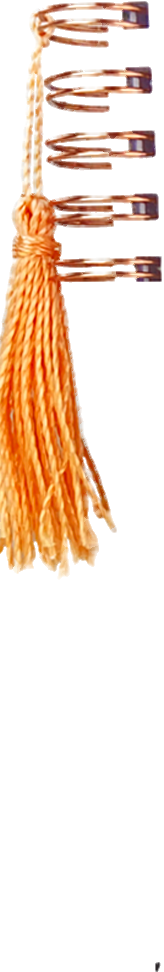
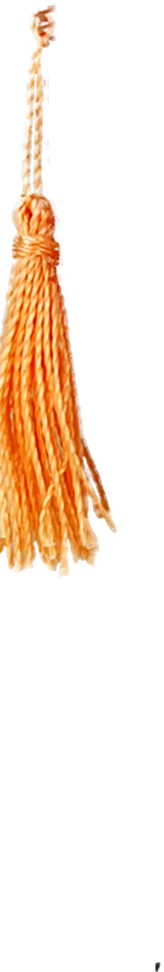
fix(mockup): anéis rose gold do topo na especificação não dependem do tassel laranja
Claude-Session: https://claude.ai/code/session_01BQFSvaeq6QY18EFfhzRHxb

Changed region(s): [[0.2744, 0.0, 1.0, 0.3086]]

diff --git a/tests/engine/aneis-rose-topo.test.ts b/tests/engine/aneis-rose-topo.test.ts
@@ -1,0 +1,89 @@
+import { existsSync } from 'node:fs';
+import { fileURLToPath } from 'node:url';
+import { describe, expect, test } from 'vitest';
+import { newRaster } from '../../src/engine/blend';
+import { compose } from '../../src/engine/compose';
+import type { Choices, Raster } from '../../src/engine/types';
+import { loadPackNode } from '../support/loadPackNode';
+
+const RAIZ = fileURLToPath(new URL('../../', import.meta.url));
+const PACK = RAIZ + 'pack/especificacao';
+const temPack = existsSync(PACK + '/mockup.json') && existsSync(PACK + '/layers/wireo-rose-topo-01.png');
+const ID = 'wireo-rose-topo-01';
+
+const TASSEIS = ['verde', 'azul', 'rosa', 'branco', 'laranja', 'nenhum'];
+const ativa = (when: Record<string, string> | undefined, escolha: Choices) =>
+  !when || Object.entries(when).every(([k, v]) => escolha[k as keyof Choices] === v);
+
+function arteLisa(w: number, h: number): Raster {
+  const r = newRaster(w, h);
+  for (let i = 0; i < w * h; i++) r.data.set([60, 90, 200, 255], i * 4);
+  return r;
+}
+
+describe.skipIf(!temPack)('anéis rose gold do topo (especificação)', () => {
+  test('a camada vale para wire-o rose gold com qualquer tassel e nunca para preto/branco', async () => {
+    const { pack } = await loadPackNode(PACK);
+    const camada = pack.stack.find((c) => c.id === ID);
+    expect(camada).toBeDefined();
+    expect(camada?.when).toEqual({ wireo: 'rose-gold' });
+    for (const tassel of TASSEIS) {
+      expect(ativa(camada?.when, { wireo: 'rose-gold', elastico: 'preto', tassel })).toBe(true);
+      for (const wireo of ['preto', 'branco']) {
+        expect(ativa(camada?.when, { wireo, elastico: 'preto', tassel })).toBe(false);
+      }
+    }
+    // fica antes das camadas de tassel (o tassel cobre os anéis, como no arquivo original)
+    const i = pack.stack.findIndex((c) => c.id === ID);
+    expect(i).toBeLessThan(pack.stack.findIndex((c) => c.id === 'tassel-verde-01'));
+    expect(i).toBeGreaterThan(pack.stack.findIndex((c) => c.id === 'arte'));
+  });
+
+  test('os anéis do topo aparecem cobre com qualquer tassel e parecidos com o caso laranja', async () => {
+    const { pack, layers } = await loadPackNode(PACK);
+    const camada = pack.stack.find((c) => c.id === ID)!;
+    const aneis = layers.get(camada.file as string)!;
+    const arte = arteLisa(pack.artSize.width, pack.artSize.height);
+    const base = { wireo: 'rose-gold', elastico: 'preto' };
+    const laranja = compose(pack, layers, arte, { ...base, tassel: 'laranja' } as Choices, null, 'vt');
+    const [ox, oy] = camada.offset;
+    for (const tassel of TASSEIS.filter((t) => t !== 'laranja')) {
+      const out = compose(pack, layers, arte, { ...base, tassel } as Choices, null, 'vt');
+      let n = 0;
+      let soma = 0;
+      let diferentes = 0;
+      // só os anéis de fato visíveis: opacos, longe do fio/tassel (x >= 65 do canvas) e dentro do topo
+      for (let y = 0; y < aneis.height; y++) {
+        for (let x = 0; x < aneis.width; x++) {
+          if (aneis.data[(y * aneis.width + x) * 4 + 3]! < 250 || ox + x < 65) continue;
+          const k = ((oy + y) * out.width + (ox + x)) * 4;
+          soma += out.data[k]! - out.data[k + 2]!;
+          n++;
+          // o corpo de cada tassel tem forma própria e cobre a ponta de alguns anéis: tolera uma pequena fração
+          if ([0, 1, 2].some((c) => Math.abs(out.data[k + c]! - laranja.data[k + c]!) > 8)) diferentes++;
+        }
+      }
+      expect(n).toBeGreaterThan(500);
+      expect(soma / n, `R-B médio com tassel ${tassel}`).toBeGreaterThan(40); // cobre: vermelho bem acima do azul
+      expect(diferentes / n, `pixels diferentes do caso laranja com tassel ${tassel}`).toBeLessThan(0.06);
+    }
+  });
+
+  test('com wire-o preto o tassel laranja não traz mais anéis cobre do topo', async () => {
+    const { pack, layers } = await loadPackNode(PACK);
+    const arte = arteLisa(pack.artSize.width, pack.artSize.height);
+    const camada = pack.stack.find((c) => c.id === ID)!;
+    const aneis = layers.get(camada.file as string)!;
+    const out = compose(pack, layers, arte, { wireo: 'preto', elastico: 'preto', tassel: 'laranja' }, null, 'vt');
+    const [ox, oy] = camada.offset;
+    let cobre = 0;
+    for (let y = 0; y < aneis.height; y++) {
+      for (let x = 0; x < aneis.width; x++) {
+        if (aneis.data[(y * aneis.width + x) * 4 + 3]! < 250 || ox + x < 65) continue;
+        const k = ((oy + y) * out.width + (ox + x)) * 4;
+        if (out.data[k]! - out.data[k + 2]! > 40) cobre++;
+      }
+    }
+    expect(cobre).toBe(0);
+  });
+});

diff --git a/tools/separar_aneis_rose.py b/tools/separar_aneis_rose.py
@@ -1,0 +1,119 @@
+"""Separa os 5 anéis rose gold do TOPO da espiral esquerda (e os clipes escuros) do tassel laranja.
+
+No PSD da especificação os anéis do topo só existem dentro de tassel-laranja-01.png, colados ao fio/tassel
+laranja. Sem isso, wire-o rose gold + qualquer tassel que não seja o laranja mostrava os anéis brancos/prata.
+
+O que o script faz na pasta do pacote (pack/especificacao):
+  1. cria layers/wireo-rose-topo-01.png (só anéis + clipes) e a entrada `wireo-rose-topo-01` no mockup.json
+     (when wireo=rose-gold, sem condição de tassel), logo antes da primeira camada tassel-*;
+  2. reescreve tassel-laranja-01.png e tassel-laranja-02.png só com o fio/tassel (sem os anéis do topo).
+É idempotente: se a entrada wireo-rose-topo-01 já existe, não faz nada.
+
+Como separa: a forma do tassel (fio, nó, corpo) fica à esquerda de uma linha-guia XB(y); à direita só há anéis.
+Perto da linha (faixa de BANDA px) e no nó do topo, onde fio e anéis se cruzam, decide a cor: cobre/rose tem matiz
+baixo (< ~22 graus) ou é mais escuro; fio e tassel são creme/laranja claros. Abaixo de Y_TASSEL é tudo tassel.
+
+Uso:  python3 tools/separar_aneis_rose.py [pack/especificacao]
+"""
+import json
+import sys
+from pathlib import Path
+
+import numpy as np
+from PIL import Image
+
+ID_NOVO = "wireo-rose-topo-01"
+ARQUIVO_NOVO = "wireo-rose-topo-01.png"
+# (y, x) da borda direita do fio/tassel, em pixels da camada tassel-laranja-01.png
+XB = [(56, 46), (195, 46), (200, 50), (215, 56), (230, 57), (246, 61), (260, 61), (272, 58), (284, 60), (292, 66)]
+BANDA = 3  # meia-largura da faixa em que a cor decide
+Y_NO = 56  # acima disso (nó do topo cruzando o anel 1) a cor decide entre X_FIO e X_ANEL
+X_FIO, X_NO, X_ANEL = 46, 48, 56  # no nó: x < X_NO o tassel fica inteiro (o anel passa por dentro dele) e não entra nos anéis; x >= X_ANEL só anel
+Y_TASSEL = 292  # daqui para baixo é tudo tassel
+
+
+def _matiz_valor(rgb):
+    rgb = rgb / 255.0
+    mx, mn = rgb.max(2), rgb.min(2)
+    d = mx - mn + 1e-9
+    r, g, b = rgb[..., 0], rgb[..., 1], rgb[..., 2]
+    h = np.where(mx == r, ((g - b) / d) % 6, np.where(mx == g, (b - r) / d + 2, (r - g) / d + 4)) * 60
+    return h, mx
+
+
+def pesos(rgba: np.ndarray):
+    """(wt, wr) em 0..1 por pixel: quanto do alfa vai para o tassel e quanto para os anéis.
+    Fora do nó do topo wt + wr = 1; no nó os dois se sobrepõem (o anel passa por dentro do nó, que o cobre)."""
+    altura, largura = rgba.shape[:2]
+    ys = np.arange(altura)
+    xb = np.interp(ys, [p[0] for p in XB], [p[1] for p in XB])[:, None]
+    x = np.arange(largura)[None, :]
+    geo = np.clip((xb - x) / (2 * BANDA) + 0.5, 0, 1)  # 1 à esquerda da guia, 0 à direita, rampa na faixa
+    h, v = _matiz_valor(rgba[..., :3].astype(float))
+    h = np.where(h > 300, 0, h)
+    cor = np.clip((h - 21) / 4, 0, 1) * np.clip((v - 0.78) / 0.07, 0, 1)  # fio/tassel: matiz alto e claro
+    faixa = np.clip(1 - np.abs(xb - x) / BANDA, 0, 1)  # onde a cor manda: faixa em volta da guia
+    wt = geo * (1 - faixa) + cor * faixa
+    wt = np.where((ys >= Y_TASSEL)[:, None], 1.0, wt)
+    wr = 1 - wt
+    no = (ys < Y_NO)[:, None]
+    wt = np.where(no, np.clip((X_ANEL - x) / (X_ANEL - X_NO), 0, 1), wt)
+    wr = np.where(no, np.where(x < X_FIO, 0.0, np.where(x >= X_ANEL, 1.0, 1 - cor)), wr)
+    return np.clip(wt, 0, 1), np.clip(wr, 0, 1)
+
+
+def separar(rgba: np.ndarray):
+    """(tassel, aneis): dois RGBA do mesmo tamanho."""
+    wt, wr = pesos(rgba)
+    tassel = rgba.copy()
+    aneis = rgba.copy()
+    tassel[..., 3] = np.rint(rgba[..., 3] * wt)
+    aneis[..., 3] = np.rint(rgba[..., 3] * wr)
+    return tassel, aneis
+
+
+def _crop(arr: np.ndarray):
+    img = Image.fromarray(arr.astype("uint8"), "RGBA")
+    caixa = img.getchannel("A").getbbox()
+    return (img.crop(caixa), caixa) if caixa else (None, None)
+
+
+def separar_pacote(pasta) -> bool:
+    pasta = Path(pasta)
+    caminho = pasta / "mockup.json"
+    pack = json.loads(caminho.read_text(encoding="utf-8"))
+    stack = pack["stack"]
+    if any(c["id"] == ID_NOVO for c in stack):
+        return False
+    camadas = pasta / "layers"
+    entrada = next((c for c in stack if c["id"] == "tassel-laranja-01"), None)
+    if entrada is None:
+        return False
+    ox, oy = entrada["offset"]
+    f01 = np.array(Image.open(camadas / "tassel-laranja-01.png").convert("RGBA"))
+    tassel1, aneis = separar(f01)
+    img_aneis, caixa = _crop(aneis)
+    img_aneis.save(camadas / ARQUIVO_NOVO, optimize=True)
+    # -02 (preto/branco) também perde os anéis do topo
+    f02 = np.array(Image.open(camadas / "tassel-laranja-02.png").convert("RGBA"))
+    tassel2, _ = separar(f02)
+    for arq, arr in (("tassel-laranja-01.png", tassel1), ("tassel-laranja-02.png", tassel2)):
+        Image.fromarray(arr.astype("uint8"), "RGBA").save(camadas / arq, optimize=True)  # mesmo tamanho: offsets intactos
+    novo = {
+        "id": ID_NOVO,
+        "role": "fixed",
+        "file": ARQUIVO_NOVO,
+        "opacity": 1.0,
+        "blend": "normal",
+        "offset": [ox + caixa[0], oy + caixa[1]],
+        "when": {"wireo": "rose-gold"},
+    }
+    pos = next(i for i, c in enumerate(stack) if c["id"].startswith("tassel-"))
+    stack.insert(pos, novo)
+    caminho.write_text(json.dumps(pack, indent=2, ensure_ascii=False), encoding="utf-8")
+    return True
+
+
+if __name__ == "__main__":
+    alvo = sys.argv[1] if len(sys.argv) > 1 else "pack/especificacao"
+    print("separado" if separar_pacote(alvo) else "nada a fazer (já separado ou sem tassel laranja)")

diff --git a/tools/export_pack_especificacao.py b/tools/export_pack_especificacao.py
@@ -19,6 +19,7 @@ from scipy import ndimage
 
 sys.path.insert(0, str(Path(__file__).resolve().parent))
 from export_pack import export_pack  # noqa: E402
+from separar_aneis_rose import separar_pacote  # noqa: E402
 
 # Trechos do mockup (1200x1200) que viram zoom, achados comparando com os círculos do PSD de referência.
 FONTE_ANEL = (10, 909, 276, 274)        # wire-o + faixa amarela + borda de baixo
@@ -116,7 +117,9 @@ def export_especificacao(psd_vt, psd_sc, out_dir):
     stack.extend(zooms_vt)
     stack.extend(zooms_sc)
     (out / "mockup.json").write_text(json.dumps(pack, indent=2, ensure_ascii=False), encoding="utf-8")
-    return pack
+    # no PSD os anéis rose do topo só existem colados ao tassel laranja: separa em wireo-rose-topo-01 (ver o script)
+    separar_pacote(out)
+    return json.loads((out / "mockup.json").read_text(encoding="utf-8"))
 
 
 if __name__ == "__main__":
